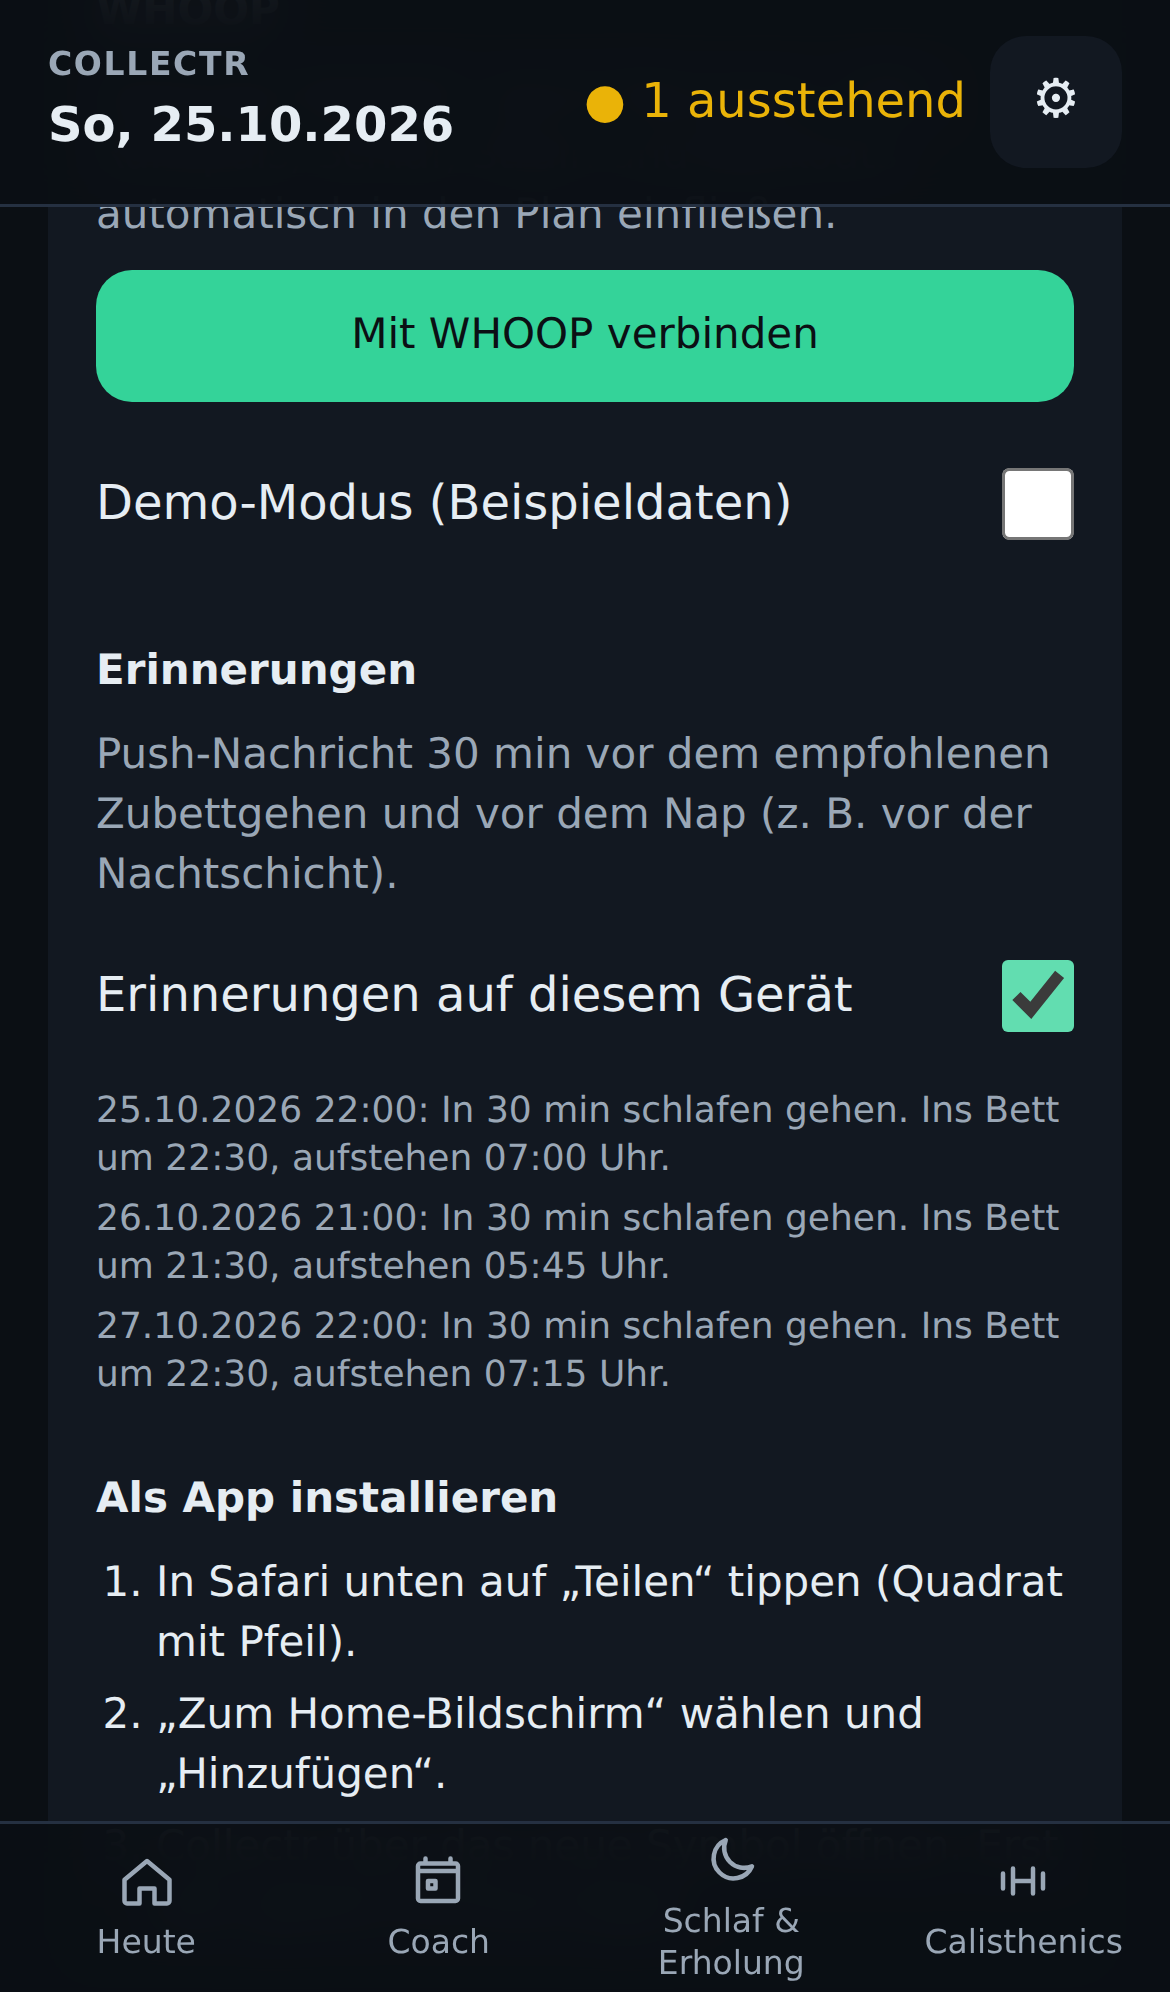
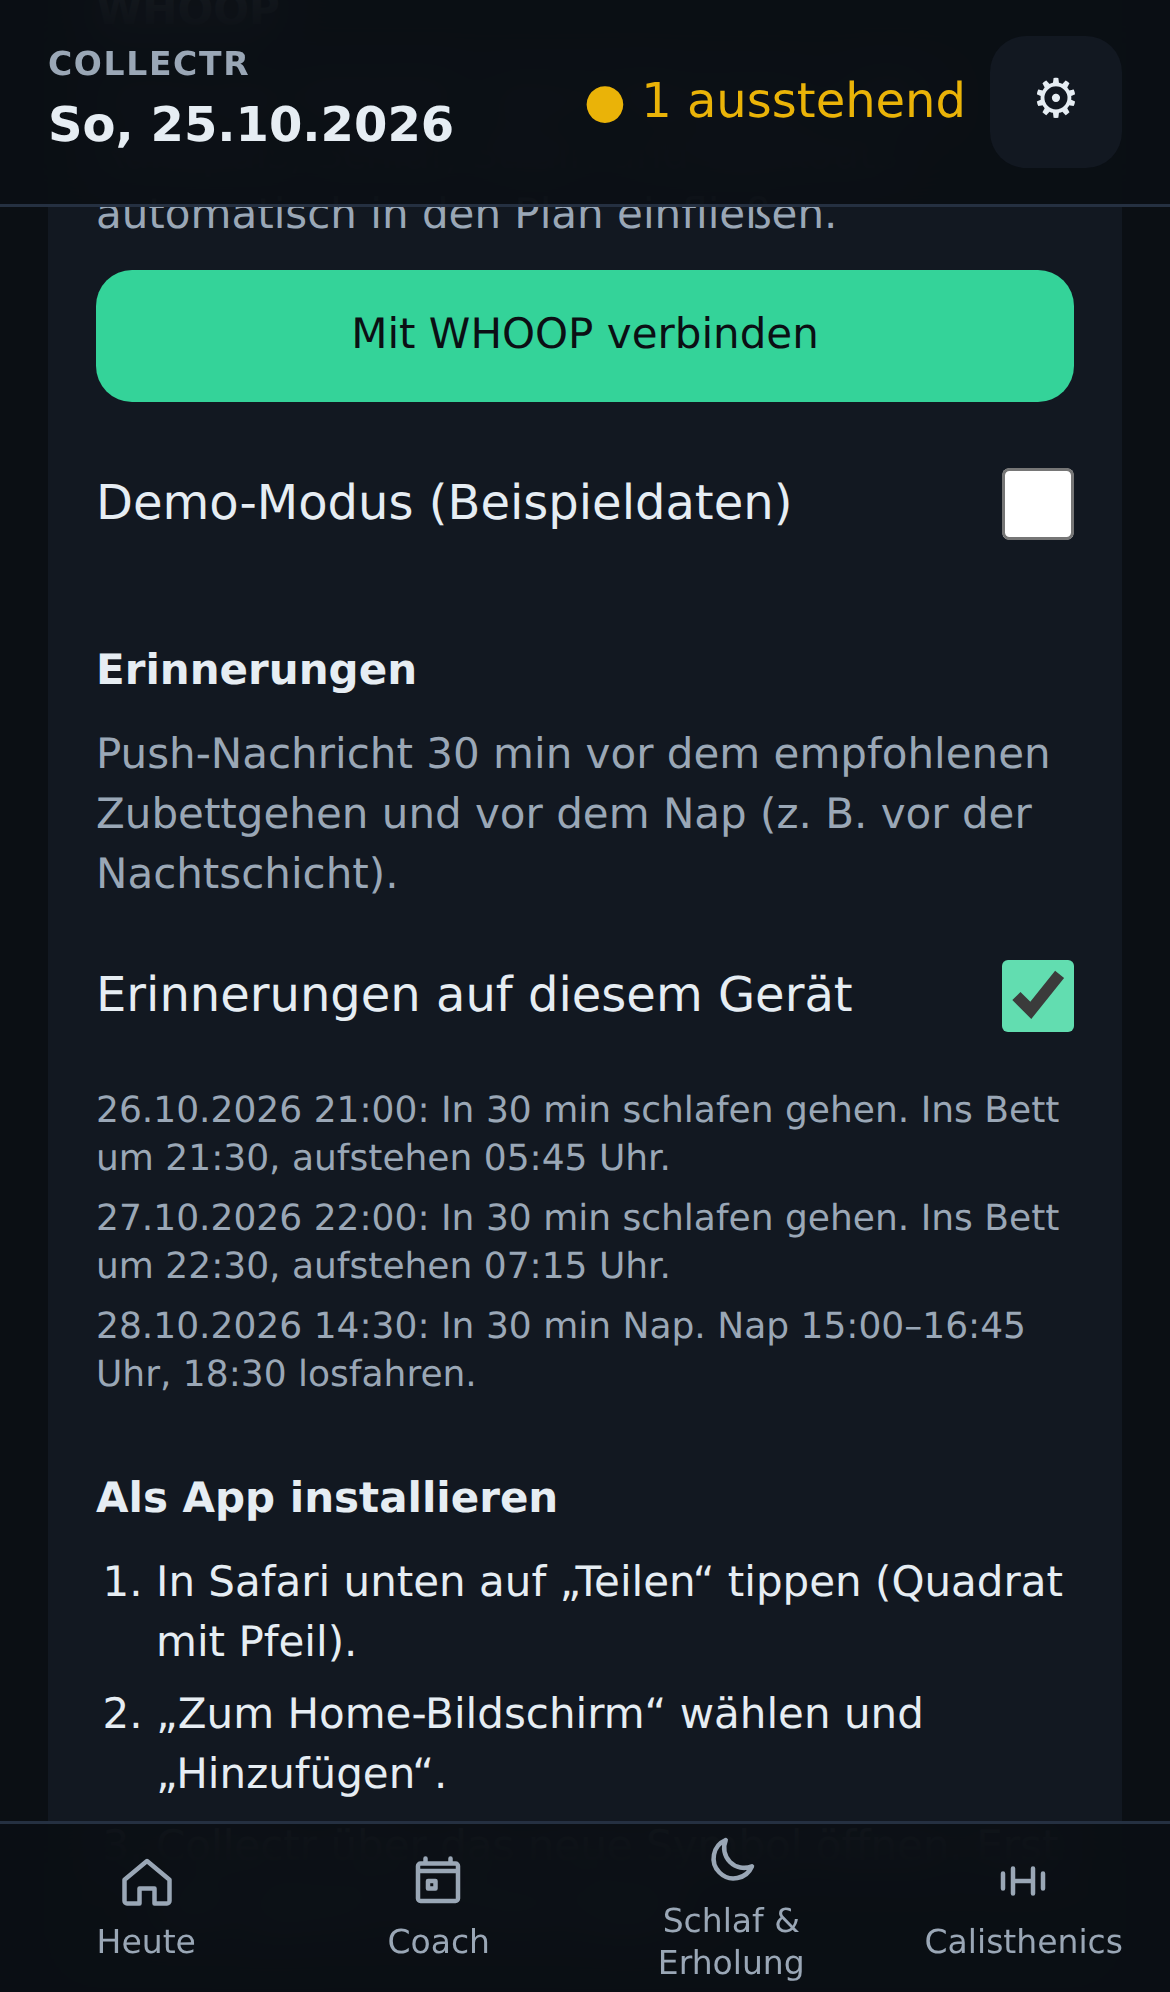
Fix: Endlos-Laden nach dem Zielwechsel mit Konto
Mit Cloud-Sync meldete jeder gelöschte Eintrag einen neuen Sync-Status. Die
CloudGate gab dabei jedes Mal eine neue onRemoteChange-Funktion weiter, die App
lud neu und startete das einmalige Löschen erneut, solange planId noch nicht
gespeichert war. Das schaukelte sich auf, die App blieb bei „Lade …“.

- resetHistoryOnce: nur ein Durchlauf gleichzeitig, Einstellungen frisch geprüft
- cloud.tsx: stabile onRemoteChange-Referenz (useCallback)
- Playwright: Zielwechsel mit Konto und vielen alten Einträgen, App kommt zur Ruhe

Claude-Session: https://claude.ai/code/session_017BJPYiqC2kuGk2Qt34sR8W

diff --git a/e2e/cloud.spec.ts b/e2e/cloud.spec.ts
@@ -240,3 +240,70 @@ test('Erinnerungen: Push-Abo speichern, Erinnerungen hochladen, wieder abbestell
   await expect(toggle).not.toBeChecked()
   await expect.poll(() => store.deletes.some((d) => d.table === 'push_subscriptions' && d.query.includes('endpoint'))).toBe(true)
 })
+
+test('Zielwechsel mit Konto: alte Einträge einmal löschen, ohne Endlos-Neuladen', async ({ page }) => {
+  const store = await fakeSupabase(page, { password: 'richtig' })
+  await page.goto('/')
+  await page.getByLabel('E-Mail').fill('ich@example.com')
+  await page.getByLabel('Passwort').fill('richtig')
+  await page.getByRole('button', { name: 'Anmelden' }).click()
+  await page.getByRole('button', { name: 'Weiter' }).click()
+  await page.getByRole('button', { name: 'Weiter' }).click()
+  await page.getByRole('button', { name: 'Später machen' }).click()
+  await page.getByRole('button', { name: 'Plan starten' }).click()
+  await expect(page.getByTestId('sync-badge')).toContainText('Synchron', { timeout: 10_000 })
+
+  // Stand vor dem Update nachbilden: Einstellungen ohne planId, viele alte Einträge
+  // (auf der Datenschutzseite, dort läuft die App nicht)
+  await page.goto('/datenschutz')
+  await page.evaluate(
+    () =>
+      new Promise<void>((resolve, reject) => {
+        const req = indexedDB.open('collectr')
+        req.onerror = () => reject(req.error)
+        req.onsuccess = () => {
+          const tx = req.result.transaction(['kv', 'logs', 'manual', 'decisions'], 'readwrite')
+          const kv = tx.objectStore('kv')
+          const get = kv.get('settings')
+          get.onsuccess = () => {
+            const { planId: _drop, ...old } = get.result as Record<string, unknown>
+            kv.put(old, 'settings')
+          }
+          kv.put({ urlaub: true, schuhe: true }, 'checklist')
+          for (let i = 0; i < 60; i++) {
+            const date = new Date(Date.UTC(2026, 9, 2 + (i % 20))).toISOString().slice(0, 10)
+            tx.objectStore('logs').put({ sessionId: `${date}#alt${i}`, date, status: 'done' })
+            tx.objectStore('decisions').put({ sessionId: `${date}#alt${i}`, date, rejected: true, decidedAt: 'x' })
+          }
+          for (let i = 0; i < 20; i++) {
+            const date = new Date(Date.UTC(2026, 9, 2 + i)).toISOString().slice(0, 10)
+            tx.objectStore('manual').put({ date, sleepMin: 420, quality: 3, feeling: 3 })
+          }
+          tx.oncomplete = () => resolve()
+          tx.onerror = () => reject(tx.error)
+        }
+      }),
+  )
+  let pulls = 0
+  page.on('request', (r) => {
+    if (r.method() === 'GET' && r.url().includes('/rest/v1/session_logs')) pulls++
+  })
+  await page.goto('/')
+  const notice = page.getByTestId('warning-notice')
+  await expect(notice).toContainText('Neues Ziel: Arberland Classic Trail', { timeout: 10_000 })
+  await expect(page.getByTestId('sync-badge')).toContainText('Synchron', { timeout: 10_000 })
+  // Ruhe: in den nächsten Sekunden keine weiteren Abrufe mehr (kein Endlos-Neuladen)
+  await page.waitForTimeout(2000)
+  const settled = pulls
+  await page.waitForTimeout(3000)
+  expect(pulls).toBe(settled)
+  expect(pulls).toBeLessThanOrEqual(4)
+  // Tombstones für die alten Einträge sind in der Cloud angekommen
+  const tombstones = store.posts
+    .filter((p) => p.table === 'session_logs')
+    .flatMap((p) => (Array.isArray(p.body) ? p.body : [p.body]) as { deleted: boolean }[])
+    .filter((r) => r.deleted)
+  expect(tombstones.length).toBeGreaterThanOrEqual(60)
+  await notice.getByRole('button', { name: 'Verstanden' }).click()
+  await expect(notice).toHaveCount(0)
+})

diff --git a/src/app/AppState.tsx b/src/app/AppState.tsx
@@ -59,6 +59,26 @@ interface AppContextValue {
 
 const AppContext = createContext<AppContextValue | null>(null)
 
+/** Laufendes Zurücksetzen beim Zielwechsel (nur ein Durchlauf gleichzeitig, auch bei parallelen Ladevorgängen). */
+let historyReset: Promise<boolean> | null = null
+
+/**
+ * Zielwechsel: alte Einträge einmalig löschen (lokal und in der Cloud). Prüft die Einstellungen frisch,
+ * damit ein paralleler Ladevorgang nicht ein zweites Mal löscht. Ergebnis: true, wenn gelöscht wurde.
+ */
+function resetHistoryOnce(repo: Repository): Promise<boolean> {
+  historyReset ??= (async () => {
+    const settings = await repo.getSettings()
+    if (!needsHistoryReset(settings)) return false
+    await repo.resetHistory()
+    await repo.saveSettings({ ...settings, planId: CONFIG.race.id })
+    return true
+  })().finally(() => {
+    historyReset = null
+  })
+  return historyReset
+}
+
 async function loadAll(repo: Repository): Promise<AppData> {
   const [settings, overrides, logs, manual, strengthTests, strengthState, checklist, decisions, assignments, whoop] = await Promise.all([
     repo.getSettings(),
@@ -92,12 +112,9 @@ export function AppProvider({
 
   const reload = useCallback(async () => {
     let d = await loadAll(repo)
-    // Zielwechsel: alte Einträge einmalig löschen (lokal und in der Cloud)
     if (needsHistoryReset(d.settings)) {
-      await repo.resetHistory()
-      await repo.saveSettings({ ...d.settings, planId: CONFIG.race.id })
+      if (await resetHistoryOnce(repo)) setNotice(HISTORY_RESET_NOTICE)
       d = await loadAll(repo)
-      setNotice(HISTORY_RESET_NOTICE)
     }
     setData(d)
   }, [repo])

diff --git a/src/app/cloud.tsx b/src/app/cloud.tsx
@@ -2,7 +2,7 @@
 // Ohne VITE_SUPABASE_URL läuft die App nur lokal (Entwicklung, Tests).
 
 import { createClient, type Session, type SupabaseClient } from '@supabase/supabase-js'
-import { createContext, useContext, useEffect, useMemo, useState, type ReactNode } from 'react'
+import { createContext, useCallback, useContext, useEffect, useMemo, useState, type ReactNode } from 'react'
 import { IndexedDbRepository } from '../data/indexedDb'
 import { SupabaseRemote } from '../data/remote'
 import { SyncEngine, type SyncStatus } from '../data/sync'
@@ -125,6 +125,9 @@ export function CloudGate({ children }: { children: (repo: Repository, onRemoteC
     }
   }, [engine, userId, local, fetchWhoop, sb])
 
+  // Stabile Referenz: sonst würde jede Statusänderung des Syncs die App neu laden lassen.
+  const onRemoteChange = useCallback((fn: () => void) => (engine ? engine.onRemoteChange(fn) : () => undefined), [engine])
+
   if (!ready) return <div className="p-6 text-muted">Lade …</div>
   if (!sb) return <>{children(local)}</>
   if (!session) return <Login onLogin={async (email, password) => (await sb.auth.signInWithPassword({ email, password })).error?.message ?? null} />
@@ -162,5 +165,5 @@ export function CloudGate({ children }: { children: (repo: Repository, onRemoteC
       },
     },
   }
-  return <CloudContext.Provider value={value}>{children(repo, (fn) => engine!.onRemoteChange(fn))}</CloudContext.Provider>
+  return <CloudContext.Provider value={value}>{children(repo, onRemoteChange)}</CloudContext.Provider>
 }

diff --git a/CLAUDE.md b/CLAUDE.md
@@ -101,7 +101,8 @@ Bei Unklarheiten, Widersprüchen oder mehreren sinnvollen Möglichkeiten: **den 
   - Vorlage `specific_early` (langer Lauf 07:00, `fixedStart`), `race_day`-Mikrozyklus, Streckenbesichtigung (`courseRecceMicro`)
   - Schlaf: 04:30 aufstehen vor Rennen und frühen langen Läufen, kein Nap am Renntag; Rennen-Texte aus `CONFIG.race` (`raceHeadline`, `raceFacts`, `raceDateLong`)
   - `resetHistory()` in IndexedDB und Sync, einmalig über `settings.planId`, Hinweis auf Heute
-  - Tests: 244 Vitest, 9 Playwright (inkl. Zielwechsel)
+  - Tests: 244 Vitest, 10 Playwright (inkl. Zielwechsel lokal und mit Konto)
+  - Fix: mit Konto lud die App nach dem Update endlos (jede Sync-Statusänderung startete das Löschen erneut). Jetzt nur ein Durchlauf (`resetHistoryOnce`) und stabile `onRemoteChange`-Referenz in `cloud.tsx`
 
 ## Phase 2 – Plan (freigegeben)
 
